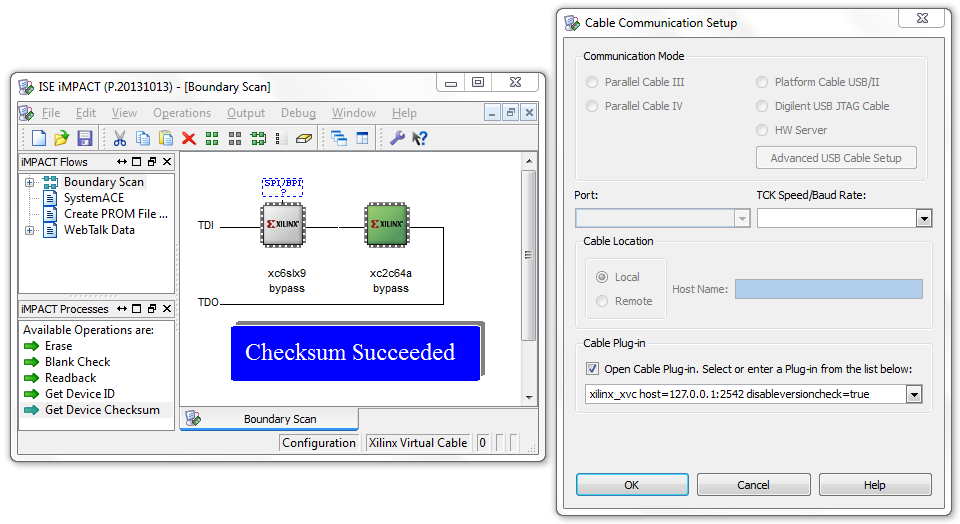
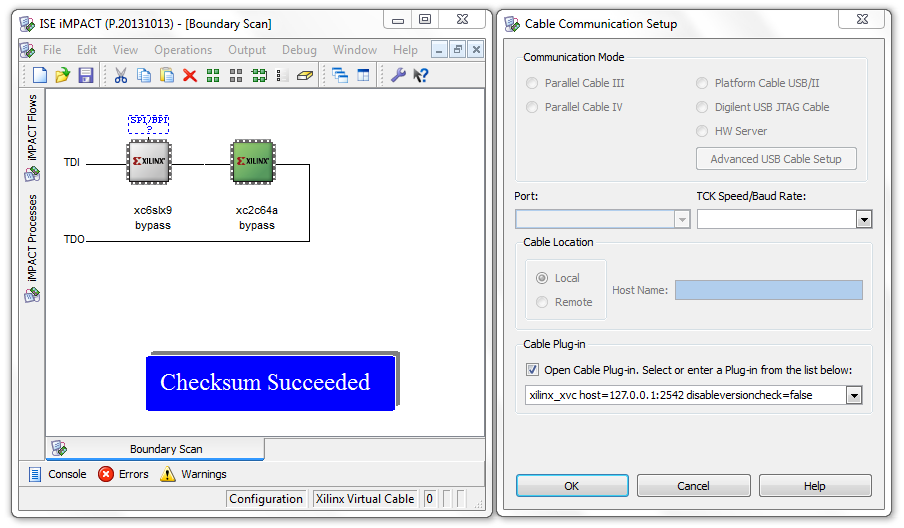
Performance improvement; Update plugin parameters

diff --git a/README.md b/README.md
@@ -18,7 +18,7 @@ Connect your Arduino Uno to the JTAG port of the target device:
 | `5` (input)     | `TDO`    |
 | `GND`           | `GND`    |
 
-The Arduino's pins are configured as *open drain* outputs to automatically adjust to the target's JTAG I/O voltage. External pull-up resistors aren't required, as Xilinx PLDs supply them internally.
+The Arduino's pins are configured as *open drain* outputs to automatically adjust to the target's JTAG I/O voltage. External pull-up resistors aren't required, as Xilinx PLDs provide them internally.
 
 ## Software
 So far, this project has been tested successfully using **ISE 14.7** and **iMPACT**. 
@@ -37,7 +37,16 @@ python tcp_serial_redirect -P 2542 COMx 115200
 5. Enter the following into the combobox below:
 
 ```
-xilinx_xvc host=127.0.0.1:2542 disableversioncheck=true
+xilinx_xvc host=127.0.0.1:2542 disableversioncheck=false
 ```
+Set `disableversioncheck` to `false` for iMPACT to parse the `getinfo` version string and maximum packet size.
 
 6. The PLD should now show up and be identified correctly when you run *Initialize Chain*.
+
+### Programming / Readout speed
+JTAG transfers are limited to a clock frequency of ~100 kHz, leading to excessive programming times for large FPGA bitfiles. 
+
+| Device   | File size | Programming time |
+|----------|-----------|------------------|
+| XC2C64A  | 27 kiB    | 10 Seconds       |
+| XC6SLX9  | 333 kiB   | 5 Minutes        |
